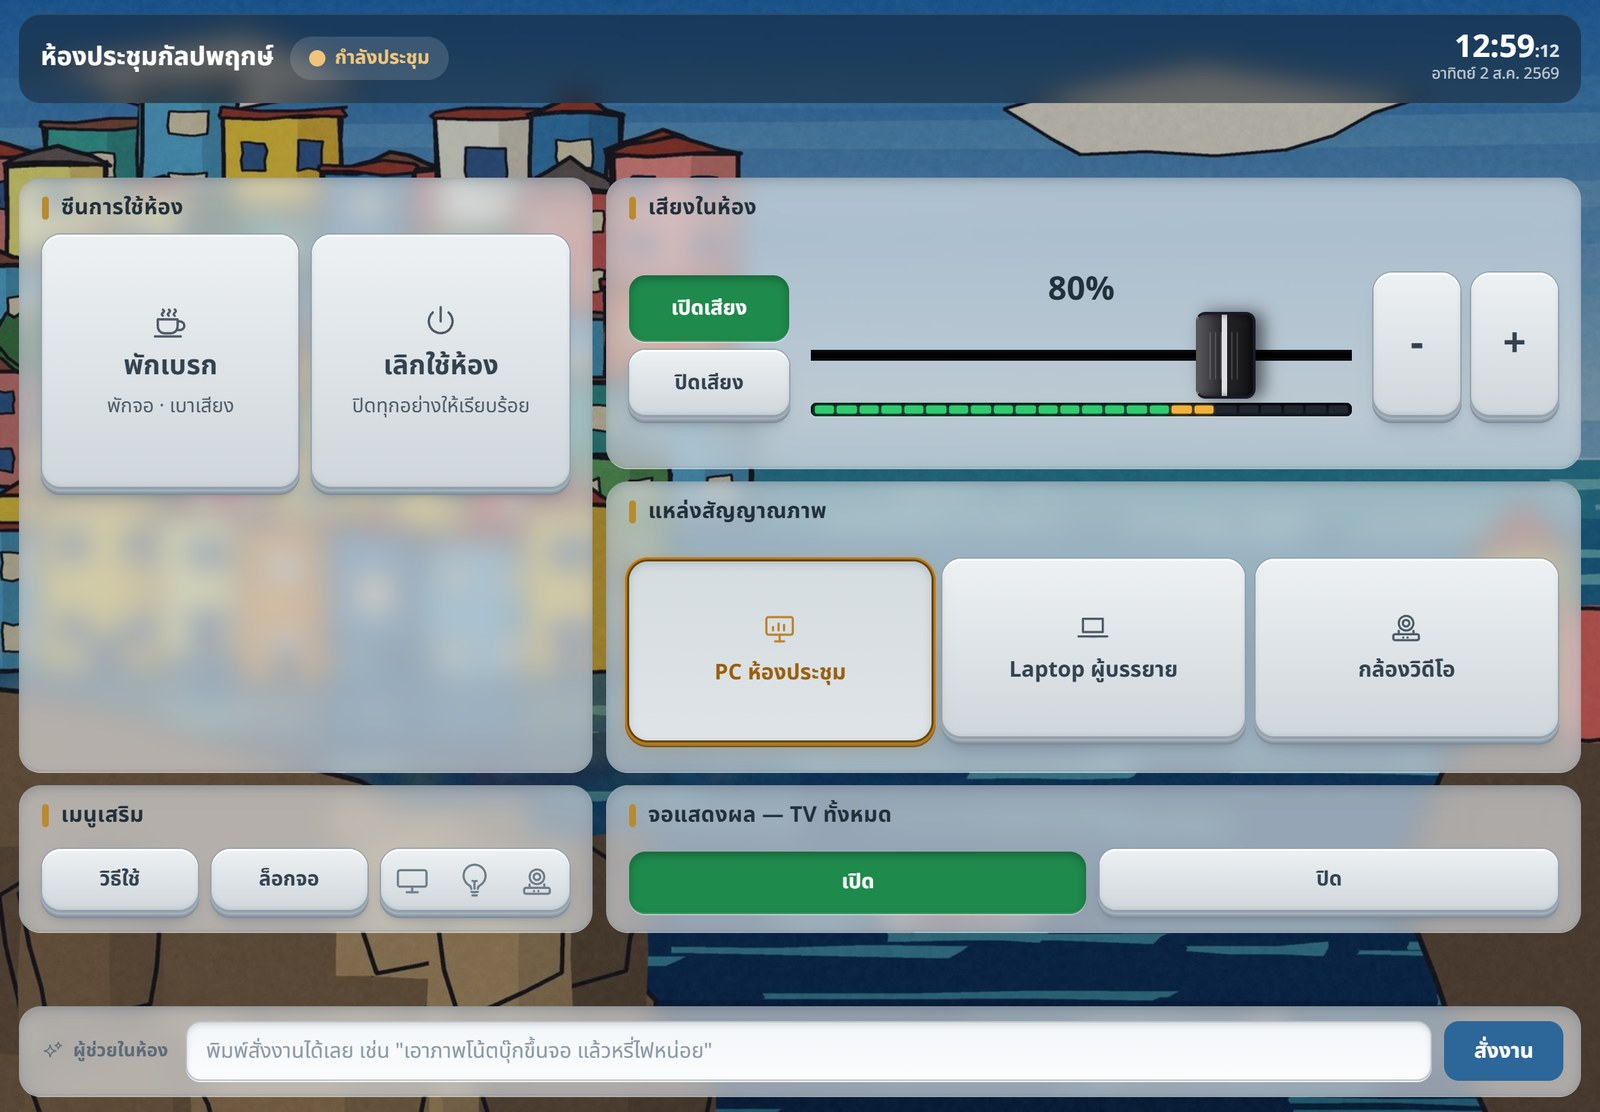
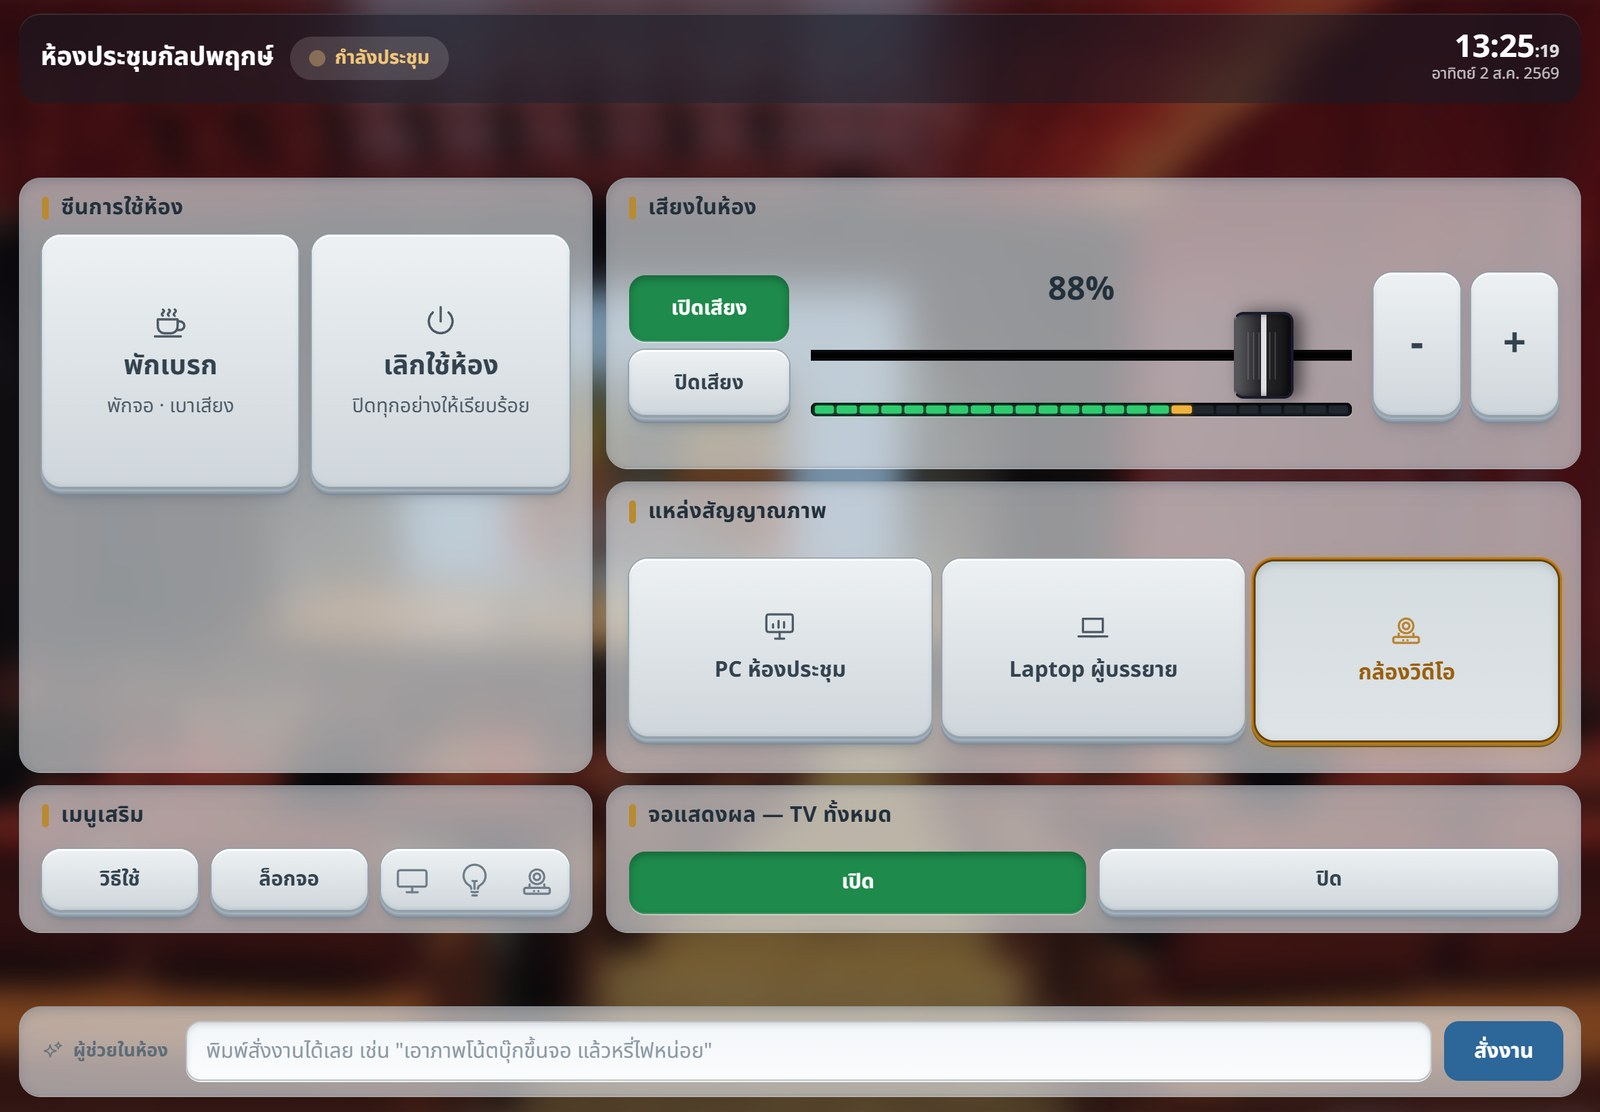
Mission: rebuild as a one-screen presentation of User Mode
Three owner instructions in one pass: cut the "— Voscene จัดการที่เหลือให้"
line, put the shots side by side with the caption underneath, and make
the whole section end within one screen. It was 2,739px tall -- roughly
three screenfuls.

Layout is now two columns: the control screen on the left (it is the
point of the section, so it gets its own column) and the room shot over
the break state on the right.

Heights are driven by a single --row custom property, and the side
column's WIDTH is derived from it:

  row = w/1.778 (16:9 room shot) + w/1.439 (break screen) + gap
  =>  w = row * 0.75

so both columns always end exactly level instead of being eyeballed --
measured at 0px difference across every desktop size tested.

--row is clamped against vh, with two step-downs (<=780px and <=720px
tall) because at 1024x700 the stat labels wrap in the narrow column and
push the row down by ~50px. Section padding went py-28 -> lg:py-10;
that alone was 224px of the overrun.

Verified across 12 viewports (2560x1440 down to 390x844): the section
fits inside the viewport on every one, columns level, no horizontal
overflow, contrast sweep clean apart from the pre-existing hero label.

Also swaps both screenshots for the auditorium-theme set the owner
preferred as more formal. Same filenames, so this needs a byte-exact
check on production, not just a 200.

diff --git a/templates/public/index.html b/templates/public/index.html
@@ -36,6 +36,29 @@
     .marquee-track:hover { animation-play-state: paused; }
     /* the mission theme strip carries wider items than the hero icon strip — slow it to match perceived speed */
     .marquee-track.marquee-slow { animation-duration: 72s; }
+    /* Mission shots: --row drives every height so the section stays one screen on a windowed browser.
+       The side column's WIDTH is derived from --row too, so both columns end level:
+       row = w/1.778 (16:9 room shot) + w/1.439 (break screen) + gap  =>  w ≈ row * 0.75 */
+    .mission-shots { display: flex; flex-direction: column; gap: 0.75rem; align-items: center; }
+    .mission-shots figure { margin: 0; }
+    .mission-side { display: flex; gap: 0.75rem; width: 100%; }
+    .mission-side > figure { flex: 1 1 0; min-width: 0; }
+    @media (min-width: 1024px) {
+        .mission-shots { --row: clamp(220px, 36vh, 360px); flex-direction: row; align-items: stretch; justify-content: center; gap: 1.25rem; }
+        .mission-main { height: var(--row); width: calc(var(--row) * 1.439); flex: none; }
+        .mission-side { flex-direction: column; width: calc(var(--row) * 0.75); flex: none; gap: 1rem; }
+        .mission-side > figure { flex: 1 1 0; }
+    }
+    /* short/windowed viewports: trim further so the section still ends inside one screen */
+    @media (min-width: 1024px) and (max-height: 780px) {
+        .mission-shots { --row: clamp(200px, 33vh, 300px); }
+    }
+    /* very short (e.g. 1024x700): the stat labels wrap in the narrow column, so trim the gaps too */
+    @media (min-width: 1024px) and (max-height: 720px) {
+        .mission-shots { --row: clamp(170px, 27vh, 240px); margin-top: 1.25rem; }
+        .mission-caption { margin-top: 0.75rem; font-size: 0.8125rem; }
+        .mission-strip-wrap { margin-top: 1.25rem; }
+    }
     .marquee-mask {
         -webkit-mask-image: linear-gradient(to right, transparent, #000 8%, #000 92%, transparent);
                 mask-image: linear-gradient(to right, transparent, #000 8%, #000 92%, transparent);
@@ -163,8 +186,8 @@
   </div>
 </section>
 
-<!-- Mission + Stats — side-by-side row -->
-<section class="relative py-20 md:py-28 overflow-hidden bg-cloud">
+<!-- Mission + Stats — one-screen presentation of User Mode -->
+<section class="relative py-12 md:py-14 lg:py-10 overflow-hidden bg-cloud">
     <!-- Optional photo backdrop (falls back gracefully if file missing) -->
     <div class="absolute inset-0 bg-cover bg-center opacity-30" style="background-image: url('/static/images/mission-bg.jpg')"></div>
     <!-- Subtle dot-grid texture so the section never feels flat -->
@@ -175,90 +198,64 @@
     <!-- Soft white-to-cloud wash on top of pattern -->
     <div class="absolute inset-0 bg-gradient-to-b from-transparent via-transparent to-[#070711]/50"></div>
 
-    <div class="relative max-w-7xl mx-auto px-4 sm:px-6 lg:px-8">
-        <div class="grid md:grid-cols-2 gap-10 md:gap-12 items-center">
-            <!-- LEFT: Mission quote -->
+    <div class="relative max-w-7xl mx-auto px-4 sm:px-6 lg:px-8 lg:min-h-[calc(100vh-60px-2rem)] lg:flex lg:flex-col lg:justify-center">
+        <!-- ROW 1 — the claim, and the numbers behind it -->
+        <div class="grid md:grid-cols-2 gap-8 md:gap-12 items-center">
             <div class="text-center md:text-left">
-                <div class="text-muted text-xs font-semibold tracking-[2px] mb-5">OUR MISSION</div>
-                <p class="font-th text-3xl md:text-4xl lg:text-5xl text-white leading-tight font-medium">
+                <div class="text-muted text-xs font-semibold tracking-[2px] mb-3">OUR MISSION</div>
+                <p class="font-th text-3xl md:text-4xl text-white leading-tight font-medium">
                     <span class="font-display text-electric/70 align-middle mr-1">&#8220;</span>สัมผัสเดียว <span class="text-electric">คุมได้ทั้งห้อง</span><span class="font-display text-electric/70 align-middle ml-1">&#8221;</span>
                 </p>
-                <p class="font-th text-2xl md:text-3xl lg:text-4xl text-slate-100 mt-4 md:mt-5 font-medium">
-                    <span class="text-white/40 font-light">—</span>
-                    <span class="font-display font-bold text-electric tracking-tight">Voscene</span>
-                    <span class="font-light">จัดการที่เหลือให้</span>
-                </p>
             </div>
-
-            <!-- RIGHT: USP Stats -->
             <div class="grid grid-cols-2 gap-6 md:gap-10">
                 <div class="text-center">
-                    <div class="font-display text-5xl md:text-6xl lg:text-7xl font-semibold text-white">{{ c.stat_1_value }}</div>
-                    <div class="text-slate-400 mt-3 text-sm font-th">{{ c.stat_1_label }}</div>
+                    <div class="font-display text-4xl md:text-5xl lg:text-6xl font-semibold text-white">{{ c.stat_1_value }}</div>
+                    <div class="text-slate-400 mt-2 text-sm font-th">{{ c.stat_1_label }}</div>
                 </div>
                 <div class="text-center">
-                    <div class="font-display text-5xl md:text-6xl lg:text-7xl font-semibold text-white">{{ c.stat_3_value }}</div>
-                    <div class="text-slate-400 mt-3 text-sm font-th">{{ c.stat_3_label }}</div>
+                    <div class="font-display text-4xl md:text-5xl lg:text-6xl font-semibold text-white">{{ c.stat_3_value }}</div>
+                    <div class="text-slate-400 mt-2 text-sm font-th">{{ c.stat_3_label }}</div>
                 </div>
             </div>
         </div>
 
-        <!-- PROOF — the mission, shown: one tablet on the table, one button to start the meeting -->
-        <div class="mt-14 md:mt-20">
-            <div class="relative mx-auto max-w-5xl">
-                <div class="absolute -inset-6 bg-electric/15 rounded-[2.5rem] blur-3xl pointer-events-none"></div>
-                <div class="relative rounded-2xl md:rounded-3xl overflow-hidden ring-1 ring-white/10 shadow-2xl">
+        {# ROW 2 — two columns side by side. The control screen is the star, so it gets its own
+           column; the room shot and the break state stack in a narrower one. Heights are driven by
+           --row so the whole block scales with the viewport and the section stays one screen. #}
+        <div class="mission-shots mt-8 lg:mt-10">
+            <figure class="mission-main">
+                <img src="/static/images/mission-user-mode.jpg"
+                     alt="โหมดผู้ใช้ของ Voscene — ปุ่มพักเบรก เลิกใช้ห้อง ปรับเสียง เลือกแหล่งสัญญาณภาพ และเปิดปิดจอ อยู่ในหน้าเดียว"
+                     class="w-full h-full object-contain rounded-xl md:rounded-2xl ring-1 ring-white/10 shadow-2xl" loading="lazy" width="1600" height="1112">
+            </figure>
+            <div class="mission-side">
+                <figure class="min-h-0">
                     <img src="/static/images/mission-room-tablet.jpg"
                          alt="แท็บเล็ตวางบนโต๊ะห้องประชุม แสดงหน้าจอ Voscene ปุ่ม “แตะเพื่อประชุม” ปุ่มเดียว"
-                         class="w-full block" loading="lazy" width="1600" height="900">
-                </div>
-            </div>
-            <p class="text-center text-slate-300 text-sm md:text-base font-th mt-6 max-w-2xl mx-auto">
-                หน้าจอต้อนรับหน้าห้อง — กดปุ่มเดียว จอ เสียง และไฟพร้อมเอง
-            </p>
-        </div>
-
-        <!-- ...and what that one button opens: the user-facing control screen (same room, same theme) -->
-        <div class="mt-10 md:mt-12">
-            <div class="flex justify-center mb-6 text-white/35" aria-hidden="true">
-                <svg class="w-6 h-6" fill="none" stroke="currentColor" stroke-width="2" viewBox="0 0 24 24"><path stroke-linecap="round" stroke-linejoin="round" d="M19 9l-7 7-7-7"/></svg>
-            </div>
-            <div class="relative mx-auto max-w-5xl">
-                <div class="relative rounded-2xl md:rounded-3xl overflow-hidden ring-1 ring-white/10 shadow-2xl">
-                    <img src="/static/images/mission-user-mode.jpg"
-                         alt="โหมดผู้ใช้ของ Voscene — ปุ่มพักเบรก เลิกใช้ห้อง ปรับเสียง เลือกแหล่งสัญญาณภาพ และเปิดปิดจอ อยู่ในหน้าเดียว"
-                         class="w-full block" loading="lazy" width="1600" height="1112">
-                </div>
-            </div>
-            <p class="text-center text-slate-300 text-sm md:text-base font-th mt-6 max-w-2xl mx-auto">
-                แล้วได้หน้านี้ — <span class="text-white font-medium">โหมดผู้ใช้</span> ปุ่มใหญ่ ชัดเจน คนใช้ห้องกดเองได้ แยกจากหน้าตั้งค่าของช่าง
-            </p>
-        </div>
-
-        <!-- sub-state of the screen above: the พักเบรก button, same room and theme -->
-        <div class="mt-10 md:mt-12">
-            <div class="relative mx-auto max-w-xl">
-                <div class="relative rounded-xl md:rounded-2xl overflow-hidden ring-1 ring-white/10 shadow-xl">
+                         class="w-full h-full object-contain rounded-lg md:rounded-xl ring-1 ring-white/10 shadow-xl" loading="lazy" width="1600" height="900">
+                </figure>
+                <figure class="min-h-0">
                     <img src="/static/images/mission-break.jpg"
                          alt="หน้าจอพักเบรกของ Voscene — แสดงเวลาที่พักมาแล้ว พร้อมปุ่มกลับเข้าประชุม"
-                         class="w-full block" loading="lazy" width="1100" height="764">
-                </div>
+                         class="w-full h-full object-contain rounded-lg md:rounded-xl ring-1 ring-white/10 shadow-xl" loading="lazy" width="1100" height="764">
+                </figure>
             </div>
-            <p class="text-center text-slate-400 text-sm font-th mt-5 max-w-2xl mx-auto">
-                กด <span class="text-slate-200">“พักเบรก”</span> — จอพัก เสียงเบาลง นับเวลาให้ แล้วกลับเข้าประชุมได้ในปุ่มเดียว
-            </p>
         </div>
 
-        <!-- THEME STRIP — the same welcome screen, themed per room -->
-        <div class="mt-10 md:mt-14">
-            <p class="hero-marquee-label text-center text-white/60 text-xs font-semibold tracking-[2px] mb-5 font-th">เลือกธีมหน้าจอให้เข้ากับแต่ละห้องได้</p>
+        <p class="mission-caption text-center text-slate-300 text-sm md:text-base font-th mt-5 max-w-3xl mx-auto">
+            แตะปุ่มเดียวที่หน้าห้อง แล้วได้ <span class="text-white font-medium">โหมดผู้ใช้</span> — จอ เสียง แหล่งภาพ และพักเบรก อยู่ในหน้าจอเดียว คนใช้ห้องกดเองได้ แยกจากหน้าตั้งค่าของช่าง
+        </p>
+
+        <!-- ROW 3 — the same screen, themed per room -->
+        <div class="mission-strip-wrap mt-7 lg:mt-9">
+            <p class="hero-marquee-label text-center text-white/60 text-xs font-semibold tracking-[2px] mb-4 font-th">เลือกธีมหน้าจอให้เข้ากับแต่ละห้องได้</p>
             {# Duplicated ×2 so the marquee loops seamlessly (translateX(-50%)). Ordered light↔dark + warm↔cool. #}
             <div class="marquee-mask overflow-hidden">
                 <div class="marquee-track marquee-slow">
                     {% for pass in [1, 2] %}
                         {% for i in range(1, 11) %}
-                        <div class="shrink-0 px-2 md:px-2.5">
-                            <div class="w-[168px] md:w-[210px] rounded-xl overflow-hidden ring-1 ring-white/10 shadow-lg">
+                        <div class="shrink-0 px-2">
+                            <div class="w-[132px] md:w-[158px] rounded-lg overflow-hidden ring-1 ring-white/10 shadow-lg">
                                 <img src="/static/images/mission-theme-{{ '%02d'|format(i) }}.jpg"
                                      alt="{% if pass == 1 %}ตัวอย่างธีมหน้าจอต้อนรับแบบที่ {{ i }}{% endif %}"
                                      {% if pass == 2 %}aria-hidden="true"{% endif %}
